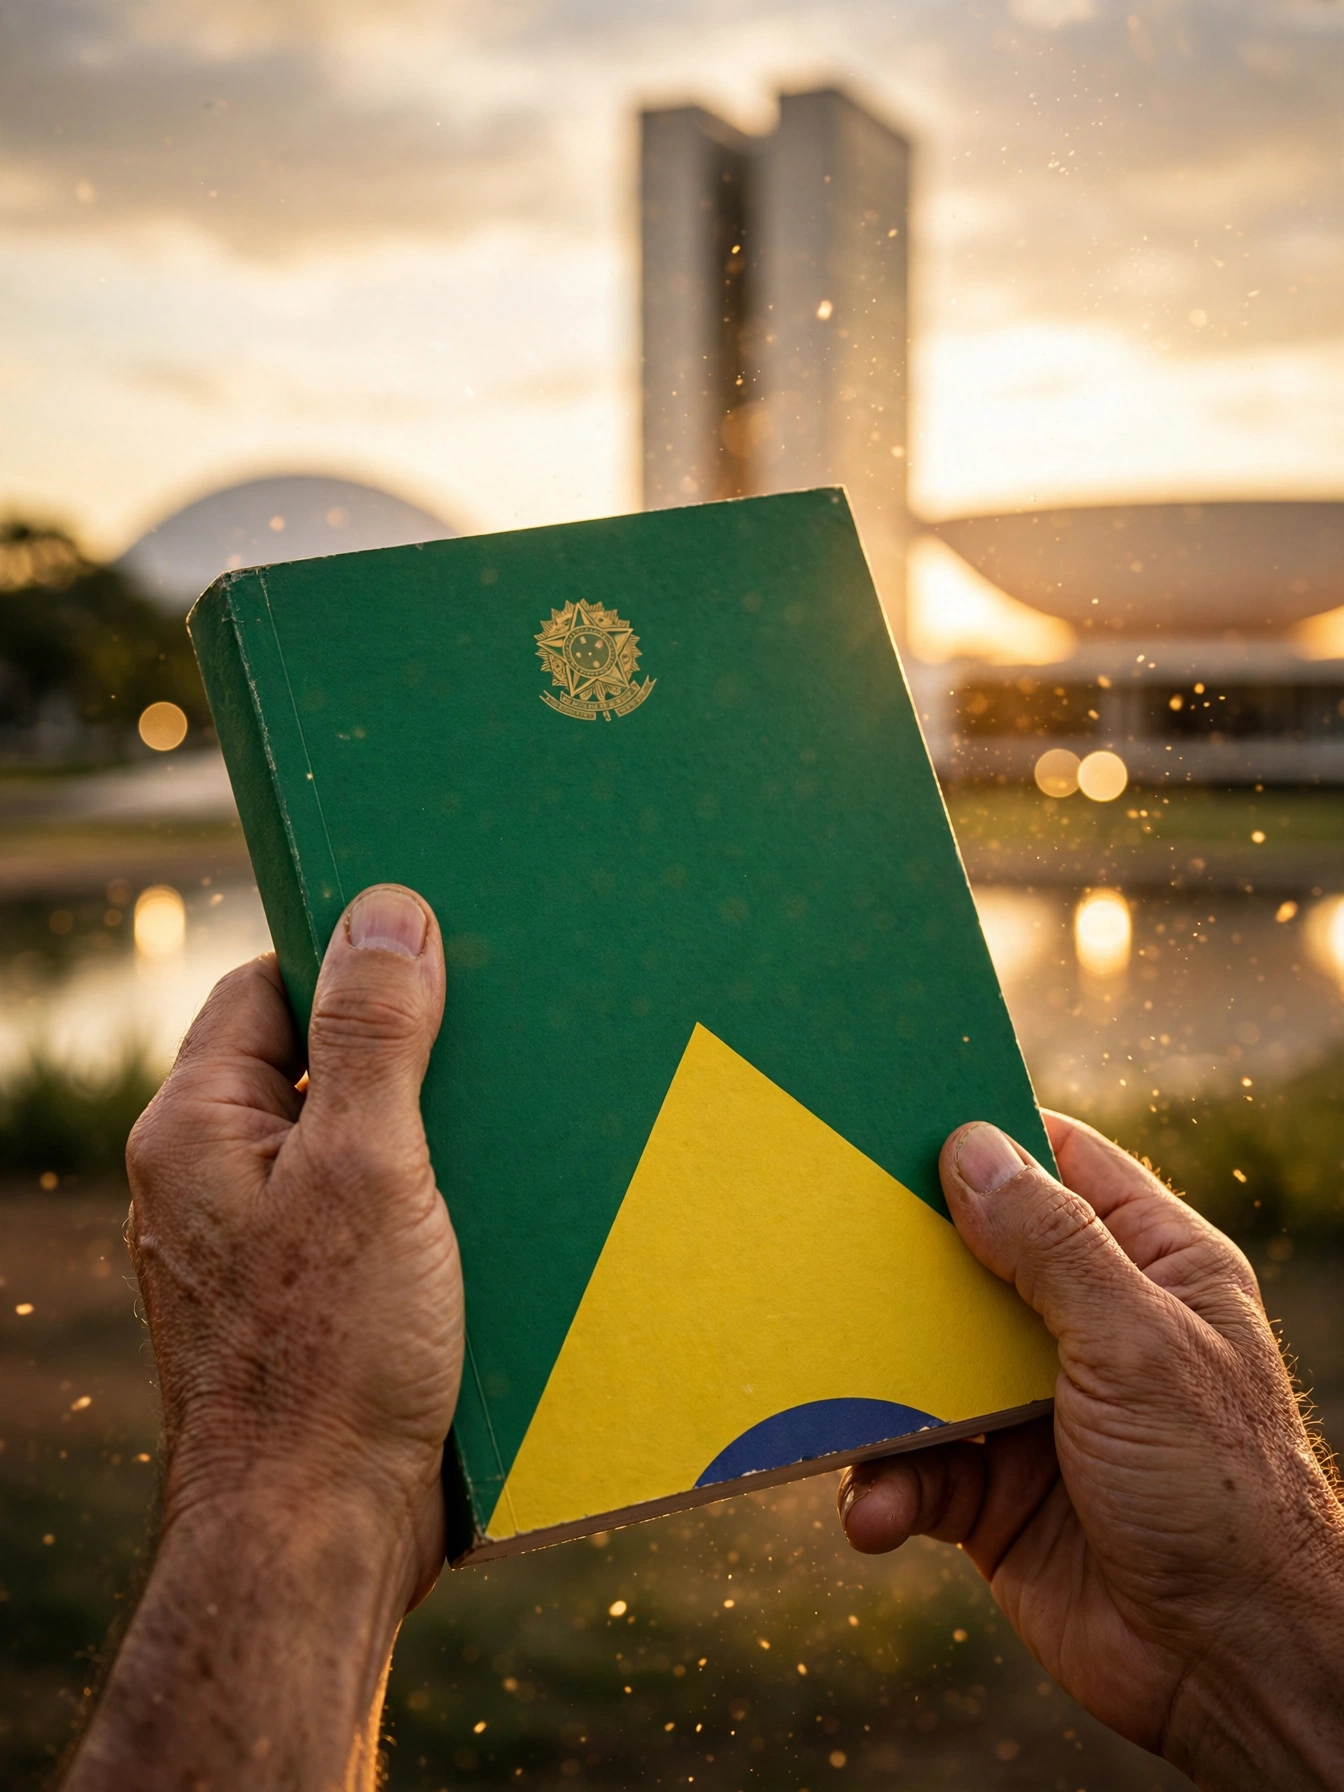
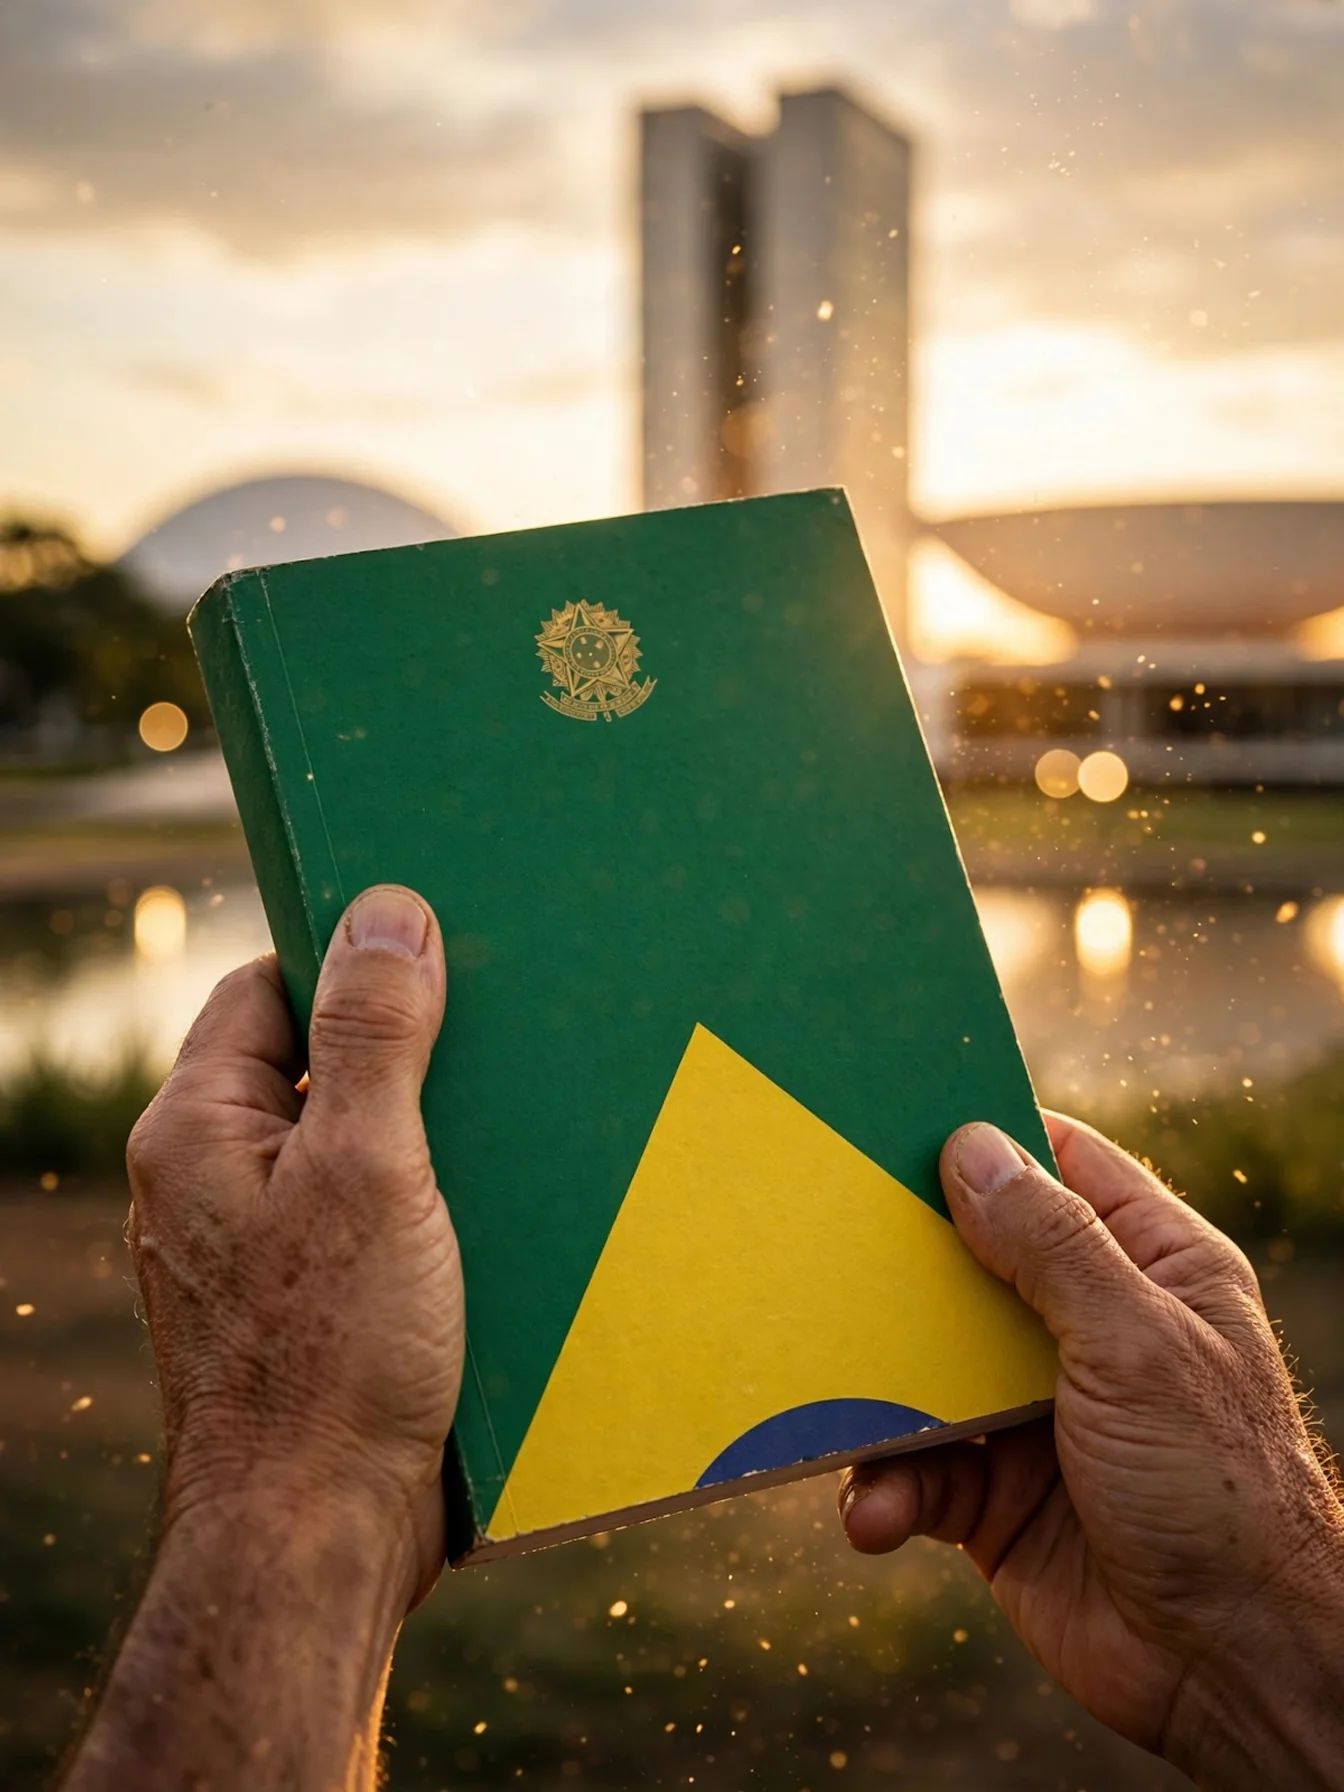
feat(capas): atualiza capa cinematografica de Direito Constitucional e CF88 em Audio Aulas e Audio Leis

Changed region(s): [[0.4062, 0.3438, 0.4688, 0.4062], [0.9688, 0.7812, 1.0, 0.8438], [0.9375, 0.75, 0.9688, 0.7812]]

diff --git a/src/lib/areasDireitoCovers.ts b/src/lib/areasDireitoCovers.ts
@@ -74,7 +74,7 @@ const MAP: Record<string, AreaCover> = {
   'direito ambiental': { cover: ambiental, tint: 'hsla(104, 56%, 36%, 0.88)' },
   'direito civil': { cover: civil, tint: 'hsla(24, 68%, 53%, 0.9)' },
   'direito concorrencial': { cover: concorrencial, tint: 'hsla(43, 76%, 66%, 0.9)' },
-  'direito constitucional': { cover: constitucional, tint: 'hsla(224, 65%, 40%, 0.9)' },
+  'direito constitucional': { cover: constitucional, tint: 'hsla(158, 64%, 32%, 0.9)' },
   'direito desportivo': { cover: desportivo, tint: 'hsla(34, 95%, 54%, 0.9)' },
   'direito do trabalho': { cover: trabalho, tint: 'hsla(28, 88%, 56%, 0.9)' },
   'direito empresarial': { cover: empresarial, tint: 'hsla(216, 30%, 48%, 0.9)' },
